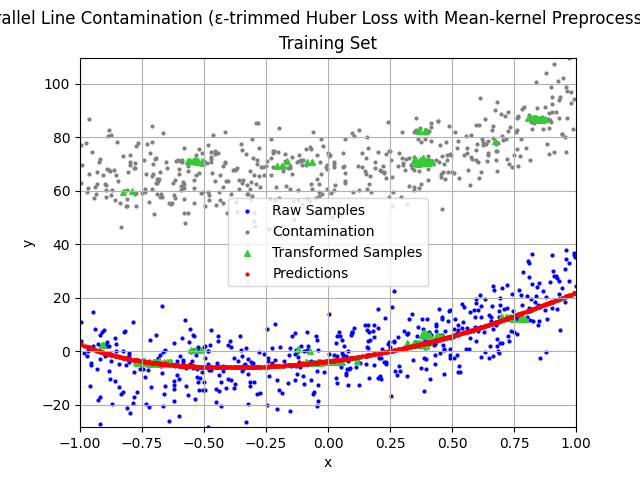
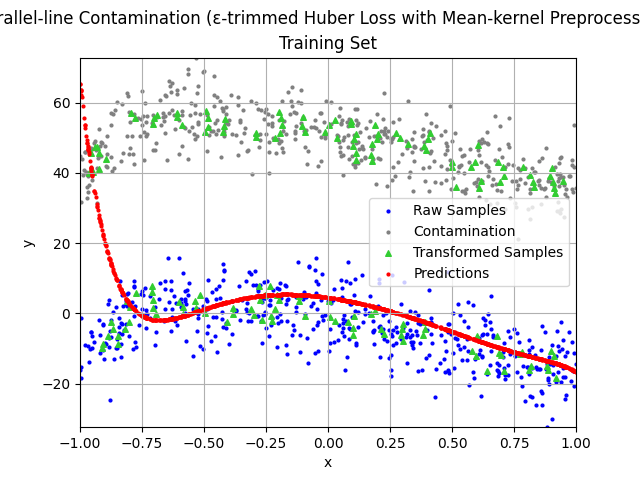
Local Dense Contamination

diff --git a/tests/utils.py b/tests/utils.py
@@ -218,8 +218,8 @@ def test_mean_kernel_preprocessor(
     dirname: str
 ) -> str:
     preprocessor = MeanKernelPreprocessor(
-        (0.2, 2),
-        (0.02, 0.2),
+        (0.2, 4),
+        (0.1, 2),
         0.01
     )
     regressor = PolynomialRegressor(
@@ -227,7 +227,7 @@ def test_mean_kernel_preprocessor(
         NullRegularization(),
         EpsilonTrimmedSquaredLoss(0),
         0.01,
-        100,
+        10,
         100000
     )
     transformed_x, transformed_y = preprocessor(x_training, y_training)
@@ -261,8 +261,8 @@ def test_epsilon_trimmed_huber_loss_with_mean_kernel_preprocessor(
     dirname: str
 ) -> str:
     preprocessor = MeanKernelPreprocessor(
-        (0.2, 2),
-        (0.02, 0.2),
+        (0.2, 4),
+        (0.1, 2),
         0.01
     )
     regressor = PolynomialRegressor(
@@ -270,7 +270,7 @@ def test_epsilon_trimmed_huber_loss_with_mean_kernel_preprocessor(
         NullRegularization(),
         EpsilonTrimmedHuberLoss(0.49, 10),
         0.01,
-        100,
+        10,
         100000
     )
     transformed_x, transformed_y = preprocessor(x_training, y_training)

diff --git a/tests/local_dense_contamination.py b/tests/local_dense_contamination.py
@@ -11,12 +11,16 @@ training_size = 1000
 x_training, y_training = generate_random_samples(w, 1, training_size)
 contamination_size = ceil(epsilon * training_size)
 contamination_indices = rng.choice(training_size, contamination_size, False)
-y_training[contamination_indices] += y_training.max() - y_training.min()
+x_contamination = rng.uniform(0.8, 1, contamination_size)
+y_contamination = rng.uniform(y_training.max(
+) * 0.9 + y_training.min() * 0.1, y_training.max(), contamination_size)
+x_training[contamination_indices] = x_contamination
+y_training[contamination_indices] = y_contamination
 
 x_testing, y_testing = generate_random_samples(w, 0, 1000)
 
-test_name = "Parallel-line Contamination"
-dirname = "parallel_line_contamination"
+test_name = "Local Dense Contamination"
+dirname = "local_dense_contamination"
 markdown_str = f"| {test_name} |"
 markdown_str += test_naive(
     power,

diff --git a/tests/__main__.py b/tests/__main__.py
@@ -1,2 +1,3 @@
 import tests.random_contamination
 import tests.parallel_line_contamination
+import tests.local_dense_contamination

diff --git a/README.md b/README.md
@@ -28,7 +28,7 @@ pip3 install -r requirements.txt
 python3 -m tests
 ```
 
-## Test Results
+## Some Test Results
 
 For all the tests, we were fitting on 9-degree polynomials (with 10 mutually independent weights, including the bias term) with noise ~ 𝒩(0, Var(y)) and ε = 0.49.
 
@@ -37,7 +37,8 @@ For all the tests, we were fitting on 9-degree polynomials (with 10 mutually ind
 | Test Name | Naive Training | Naive Testing | Huber Loss Training | Huber Loss Testing | ε-trimmed Huber Loss Training | ε-trimmed Huber Loss Testing | Mean-kernel Preprocessor Training | Mean-kernel Preprocessor Testing | ε-trimmed Huber Loss with Mean-kernel Preprocessor Training | ε-trimmed Huber Loss with Mean-kernel Preprocessor Testing |
 | :-: | :-: | :-: | :-: | :-: | :-: | :-: | :-: | :-: | :-: | :-: |
 | Random Contamination | ![](test_results/random_contamination/naive/training.png) | ![](test_results/random_contamination/naive/testing.png) | ![](test_results/random_contamination/huber_loss/training.png) | ![](test_results/random_contamination/huber_loss/testing.png) | ![](test_results/random_contamination/epsilon_trimmed_huber_loss/training.png) | ![](test_results/random_contamination/epsilon_trimmed_huber_loss/testing.png) | ![](test_results/random_contamination/mean_kernel_preprocessor/training.png) | ![](test_results/random_contamination/mean_kernel_preprocessor/testing.png) | ![](test_results/random_contamination/epsilon_trimmed_huber_loss_with_mean_kernel_preprocessor/training.png) | ![](test_results/random_contamination/epsilon_trimmed_huber_loss_with_mean_kernel_preprocessor/testing.png) |
-| Parallel Line Contamination | ![](test_results/parallel_line_contamination/naive/training.png) | ![](test_results/parallel_line_contamination/naive/testing.png) | ![](test_results/parallel_line_contamination/huber_loss/training.png) | ![](test_results/parallel_line_contamination/huber_loss/testing.png) | ![](test_results/parallel_line_contamination/epsilon_trimmed_huber_loss/training.png) | ![](test_results/parallel_line_contamination/epsilon_trimmed_huber_loss/testing.png) | ![](test_results/parallel_line_contamination/mean_kernel_preprocessor/training.png) | ![](test_results/parallel_line_contamination/mean_kernel_preprocessor/testing.png) | ![](test_results/parallel_line_contamination/epsilon_trimmed_huber_loss_with_mean_kernel_preprocessor/training.png) | ![](test_results/parallel_line_contamination/epsilon_trimmed_huber_loss_with_mean_kernel_preprocessor/testing.png) |
+| Parallel-line Contamination | ![](test_results/parallel_line_contamination/naive/training.png) | ![](test_results/parallel_line_contamination/naive/testing.png) | ![](test_results/parallel_line_contamination/huber_loss/training.png) | ![](test_results/parallel_line_contamination/huber_loss/testing.png) | ![](test_results/parallel_line_contamination/epsilon_trimmed_huber_loss/training.png) | ![](test_results/parallel_line_contamination/epsilon_trimmed_huber_loss/testing.png) | ![](test_results/parallel_line_contamination/mean_kernel_preprocessor/training.png) | ![](test_results/parallel_line_contamination/mean_kernel_preprocessor/testing.png) | ![](test_results/parallel_line_contamination/epsilon_trimmed_huber_loss_with_mean_kernel_preprocessor/training.png) | ![](test_results/parallel_line_contamination/epsilon_trimmed_huber_loss_with_mean_kernel_preprocessor/testing.png) |
+| Local Dense Contamination | ![](test_results/local_dense_contamination/naive/training.png) | ![](test_results/local_dense_contamination/naive/testing.png) | ![](test_results/local_dense_contamination/huber_loss/training.png) | ![](test_results/local_dense_contamination/huber_loss/testing.png) | ![](test_results/local_dense_contamination/epsilon_trimmed_huber_loss/training.png) | ![](test_results/local_dense_contamination/epsilon_trimmed_huber_loss/testing.png) | ![](test_results/local_dense_contamination/mean_kernel_preprocessor/training.png) | ![](test_results/local_dense_contamination/mean_kernel_preprocessor/testing.png) | ![](test_results/local_dense_contamination/epsilon_trimmed_huber_loss_with_mean_kernel_preprocessor/training.png) | ![](test_results/local_dense_contamination/epsilon_trimmed_huber_loss_with_mean_kernel_preprocessor/testing.png) |
 | <!-- GitHub does not render the table cell widths correctly --> | &nbsp;&nbsp;&nbsp;&nbsp;&nbsp;&nbsp;&nbsp;&nbsp;&nbsp;&nbsp;&nbsp;&nbsp;&nbsp;&nbsp;&nbsp;&nbsp;&nbsp;&nbsp;&nbsp;&nbsp;&nbsp;&nbsp;&nbsp;&nbsp;&nbsp;&nbsp;&nbsp;&nbsp;&nbsp;&nbsp;&nbsp;&nbsp;&nbsp;&nbsp;&nbsp;&nbsp;&nbsp;&nbsp;&nbsp;&nbsp;&nbsp;&nbsp;&nbsp;&nbsp;&nbsp;&nbsp;&nbsp;&nbsp;&nbsp;&nbsp;&nbsp;&nbsp;&nbsp;&nbsp;&nbsp;&nbsp;&nbsp;&nbsp;&nbsp;&nbsp;&nbsp;&nbsp;&nbsp;&nbsp; | &nbsp;&nbsp;&nbsp;&nbsp;&nbsp;&nbsp;&nbsp;&nbsp;&nbsp;&nbsp;&nbsp;&nbsp;&nbsp;&nbsp;&nbsp;&nbsp;&nbsp;&nbsp;&nbsp;&nbsp;&nbsp;&nbsp;&nbsp;&nbsp;&nbsp;&nbsp;&nbsp;&nbsp;&nbsp;&nbsp;&nbsp;&nbsp;&nbsp;&nbsp;&nbsp;&nbsp;&nbsp;&nbsp;&nbsp;&nbsp;&nbsp;&nbsp;&nbsp;&nbsp;&nbsp;&nbsp;&nbsp;&nbsp;&nbsp;&nbsp;&nbsp;&nbsp;&nbsp;&nbsp;&nbsp;&nbsp;&nbsp;&nbsp;&nbsp;&nbsp;&nbsp;&nbsp;&nbsp;&nbsp; | &nbsp;&nbsp;&nbsp;&nbsp;&nbsp;&nbsp;&nbsp;&nbsp;&nbsp;&nbsp;&nbsp;&nbsp;&nbsp;&nbsp;&nbsp;&nbsp;&nbsp;&nbsp;&nbsp;&nbsp;&nbsp;&nbsp;&nbsp;&nbsp;&nbsp;&nbsp;&nbsp;&nbsp;&nbsp;&nbsp;&nbsp;&nbsp;&nbsp;&nbsp;&nbsp;&nbsp;&nbsp;&nbsp;&nbsp;&nbsp;&nbsp;&nbsp;&nbsp;&nbsp;&nbsp;&nbsp;&nbsp;&nbsp;&nbsp;&nbsp;&nbsp;&nbsp;&nbsp;&nbsp;&nbsp;&nbsp;&nbsp;&nbsp;&nbsp;&nbsp;&nbsp;&nbsp;&nbsp;&nbsp; | &nbsp;&nbsp;&nbsp;&nbsp;&nbsp;&nbsp;&nbsp;&nbsp;&nbsp;&nbsp;&nbsp;&nbsp;&nbsp;&nbsp;&nbsp;&nbsp;&nbsp;&nbsp;&nbsp;&nbsp;&nbsp;&nbsp;&nbsp;&nbsp;&nbsp;&nbsp;&nbsp;&nbsp;&nbsp;&nbsp;&nbsp;&nbsp;&nbsp;&nbsp;&nbsp;&nbsp;&nbsp;&nbsp;&nbsp;&nbsp;&nbsp;&nbsp;&nbsp;&nbsp;&nbsp;&nbsp;&nbsp;&nbsp;&nbsp;&nbsp;&nbsp;&nbsp;&nbsp;&nbsp;&nbsp;&nbsp;&nbsp;&nbsp;&nbsp;&nbsp;&nbsp;&nbsp;&nbsp;&nbsp; | &nbsp;&nbsp;&nbsp;&nbsp;&nbsp;&nbsp;&nbsp;&nbsp;&nbsp;&nbsp;&nbsp;&nbsp;&nbsp;&nbsp;&nbsp;&nbsp;&nbsp;&nbsp;&nbsp;&nbsp;&nbsp;&nbsp;&nbsp;&nbsp;&nbsp;&nbsp;&nbsp;&nbsp;&nbsp;&nbsp;&nbsp;&nbsp;&nbsp;&nbsp;&nbsp;&nbsp;&nbsp;&nbsp;&nbsp;&nbsp;&nbsp;&nbsp;&nbsp;&nbsp;&nbsp;&nbsp;&nbsp;&nbsp;&nbsp;&nbsp;&nbsp;&nbsp;&nbsp;&nbsp;&nbsp;&nbsp;&nbsp;&nbsp;&nbsp;&nbsp;&nbsp;&nbsp;&nbsp;&nbsp; | &nbsp;&nbsp;&nbsp;&nbsp;&nbsp;&nbsp;&nbsp;&nbsp;&nbsp;&nbsp;&nbsp;&nbsp;&nbsp;&nbsp;&nbsp;&nbsp;&nbsp;&nbsp;&nbsp;&nbsp;&nbsp;&nbsp;&nbsp;&nbsp;&nbsp;&nbsp;&nbsp;&nbsp;&nbsp;&nbsp;&nbsp;&nbsp;&nbsp;&nbsp;&nbsp;&nbsp;&nbsp;&nbsp;&nbsp;&nbsp;&nbsp;&nbsp;&nbsp;&nbsp;&nbsp;&nbsp;&nbsp;&nbsp;&nbsp;&nbsp;&nbsp;&nbsp;&nbsp;&nbsp;&nbsp;&nbsp;&nbsp;&nbsp;&nbsp;&nbsp;&nbsp;&nbsp;&nbsp;&nbsp; | &nbsp;&nbsp;&nbsp;&nbsp;&nbsp;&nbsp;&nbsp;&nbsp;&nbsp;&nbsp;&nbsp;&nbsp;&nbsp;&nbsp;&nbsp;&nbsp;&nbsp;&nbsp;&nbsp;&nbsp;&nbsp;&nbsp;&nbsp;&nbsp;&nbsp;&nbsp;&nbsp;&nbsp;&nbsp;&nbsp;&nbsp;&nbsp;&nbsp;&nbsp;&nbsp;&nbsp;&nbsp;&nbsp;&nbsp;&nbsp;&nbsp;&nbsp;&nbsp;&nbsp;&nbsp;&nbsp;&nbsp;&nbsp;&nbsp;&nbsp;&nbsp;&nbsp;&nbsp;&nbsp;&nbsp;&nbsp;&nbsp;&nbsp;&nbsp;&nbsp;&nbsp;&nbsp;&nbsp;&nbsp; | &nbsp;&nbsp;&nbsp;&nbsp;&nbsp;&nbsp;&nbsp;&nbsp;&nbsp;&nbsp;&nbsp;&nbsp;&nbsp;&nbsp;&nbsp;&nbsp;&nbsp;&nbsp;&nbsp;&nbsp;&nbsp;&nbsp;&nbsp;&nbsp;&nbsp;&nbsp;&nbsp;&nbsp;&nbsp;&nbsp;&nbsp;&nbsp;&nbsp;&nbsp;&nbsp;&nbsp;&nbsp;&nbsp;&nbsp;&nbsp;&nbsp;&nbsp;&nbsp;&nbsp;&nbsp;&nbsp;&nbsp;&nbsp;&nbsp;&nbsp;&nbsp;&nbsp;&nbsp;&nbsp;&nbsp;&nbsp;&nbsp;&nbsp;&nbsp;&nbsp;&nbsp;&nbsp;&nbsp;&nbsp; | &nbsp;&nbsp;&nbsp;&nbsp;&nbsp;&nbsp;&nbsp;&nbsp;&nbsp;&nbsp;&nbsp;&nbsp;&nbsp;&nbsp;&nbsp;&nbsp;&nbsp;&nbsp;&nbsp;&nbsp;&nbsp;&nbsp;&nbsp;&nbsp;&nbsp;&nbsp;&nbsp;&nbsp;&nbsp;&nbsp;&nbsp;&nbsp;&nbsp;&nbsp;&nbsp;&nbsp;&nbsp;&nbsp;&nbsp;&nbsp;&nbsp;&nbsp;&nbsp;&nbsp;&nbsp;&nbsp;&nbsp;&nbsp;&nbsp;&nbsp;&nbsp;&nbsp;&nbsp;&nbsp;&nbsp;&nbsp;&nbsp;&nbsp;&nbsp;&nbsp;&nbsp;&nbsp;&nbsp;&nbsp; | &nbsp;&nbsp;&nbsp;&nbsp;&nbsp;&nbsp;&nbsp;&nbsp;&nbsp;&nbsp;&nbsp;&nbsp;&nbsp;&nbsp;&nbsp;&nbsp;&nbsp;&nbsp;&nbsp;&nbsp;&nbsp;&nbsp;&nbsp;&nbsp;&nbsp;&nbsp;&nbsp;&nbsp;&nbsp;&nbsp;&nbsp;&nbsp;&nbsp;&nbsp;&nbsp;&nbsp;&nbsp;&nbsp;&nbsp;&nbsp;&nbsp;&nbsp;&nbsp;&nbsp;&nbsp;&nbsp;&nbsp;&nbsp;&nbsp;&nbsp;&nbsp;&nbsp;&nbsp;&nbsp;&nbsp;&nbsp;&nbsp;&nbsp;&nbsp;&nbsp;&nbsp;&nbsp;&nbsp;&nbsp; |
 
 </div>
